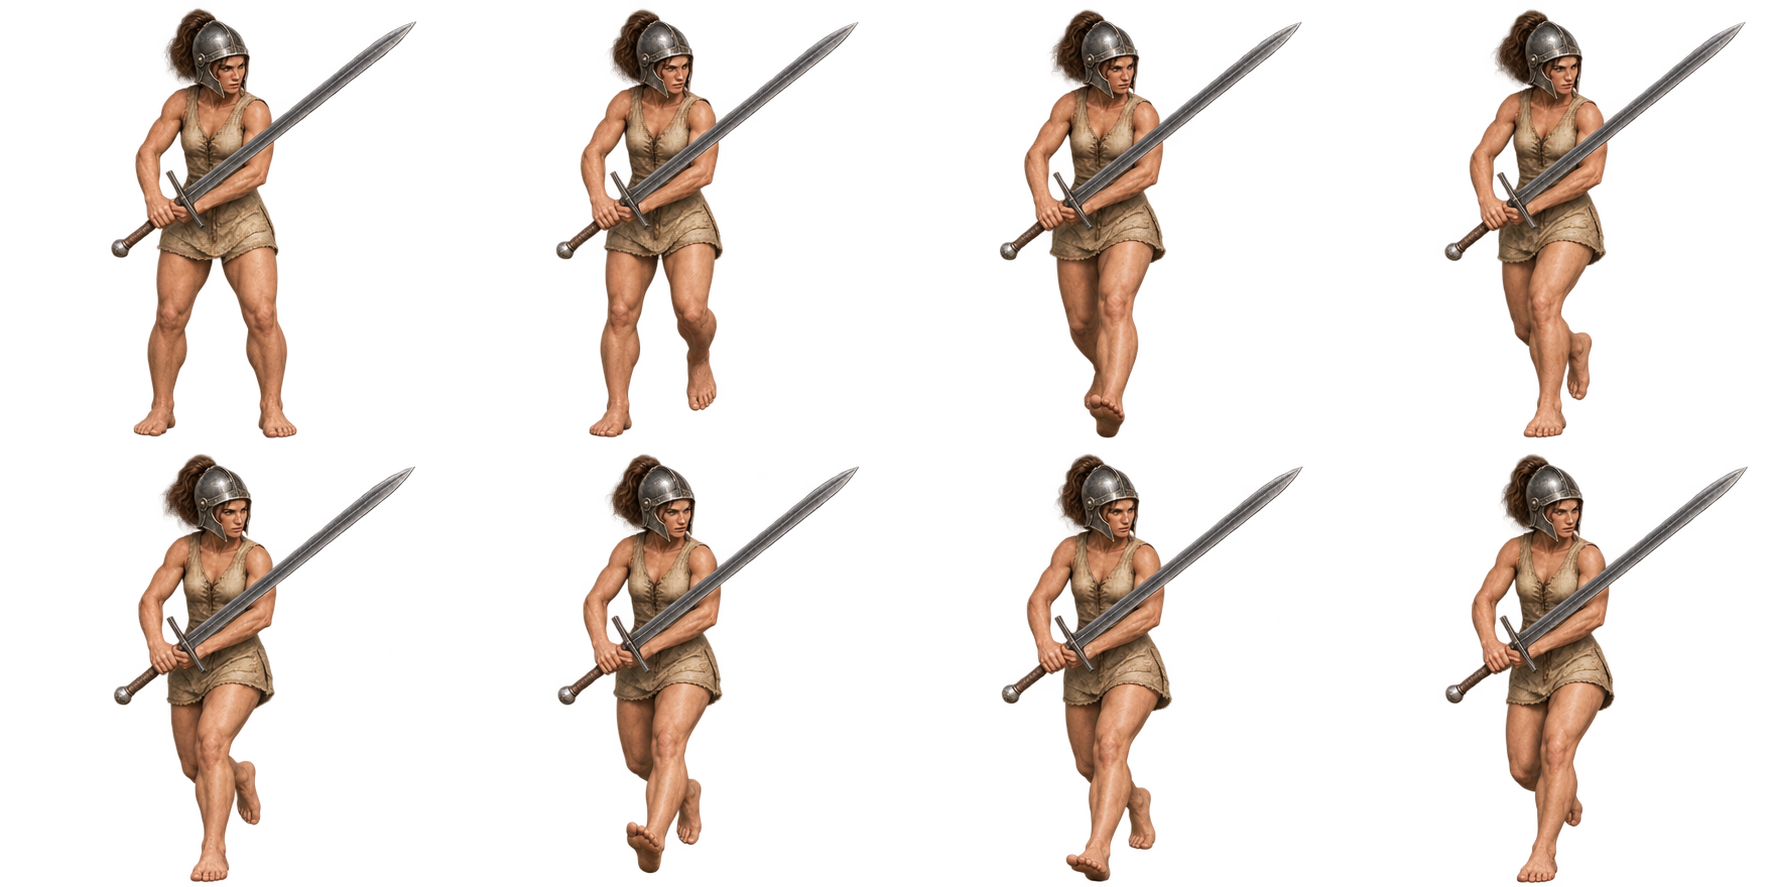
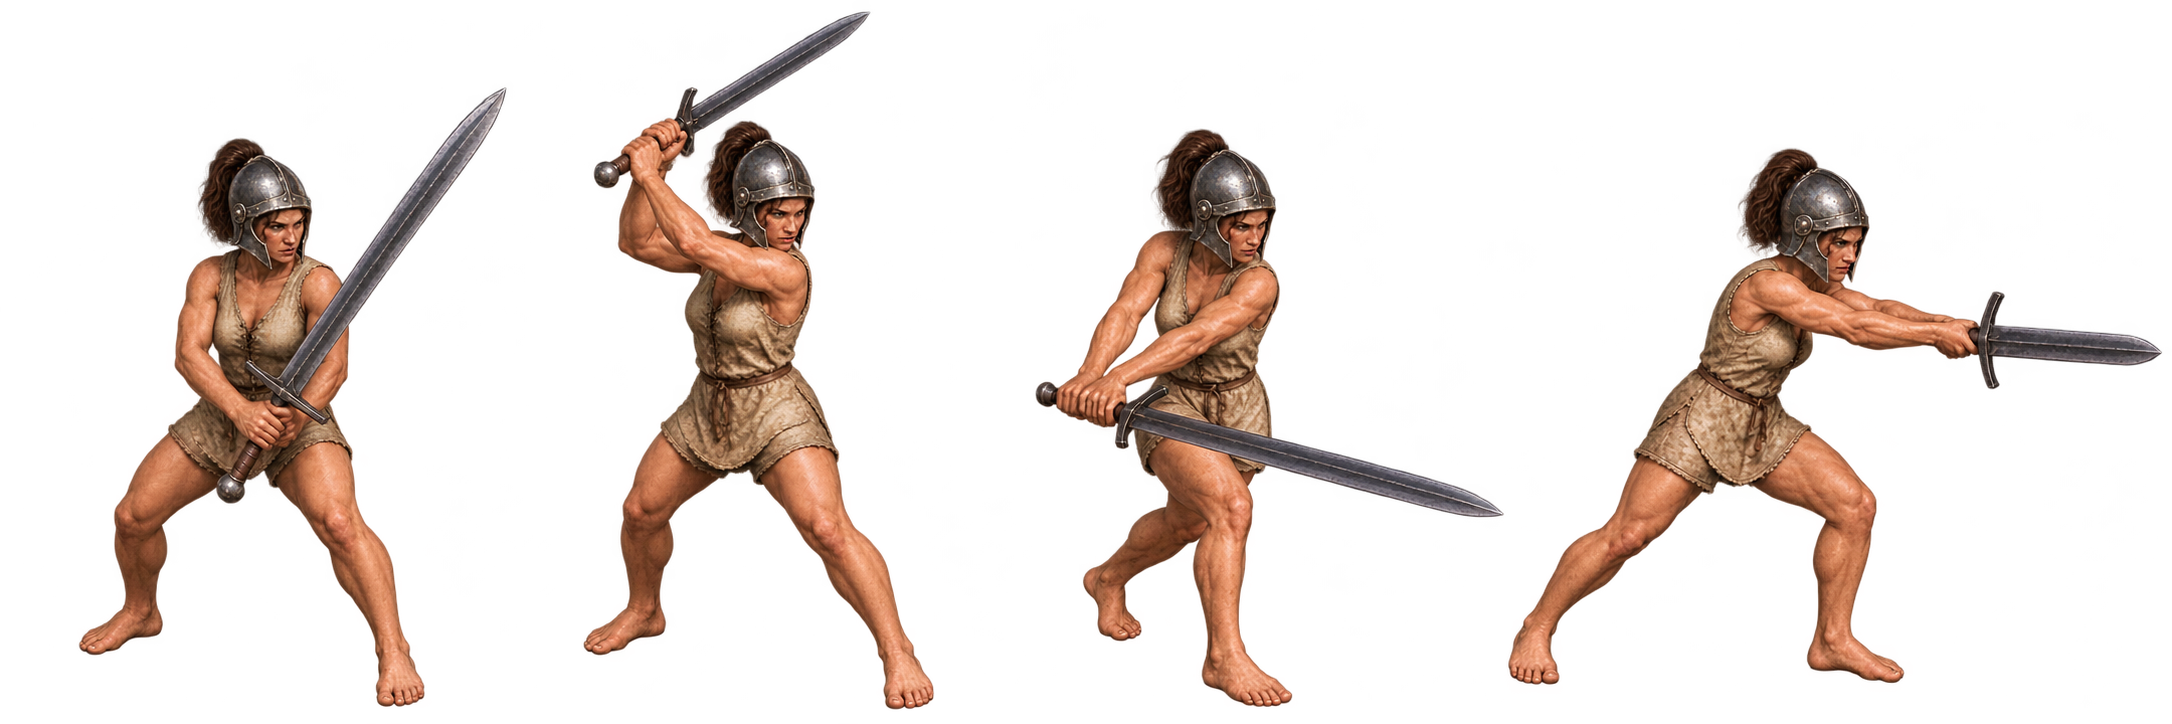
Fix helmet-only attack sprites for both genders

diff --git a/src/game/render.ts b/src/game/render.ts
@@ -30,10 +30,10 @@ const animationPaths = {
 const attackSheets = {
   femaleArmoredNoHelmAttack: '/assets/warrior_female_armored_attack.png',
   femaleArmoredHelmAttack: '/assets/warrior_female_armored_helm_attack.png',
-  femaleHelmAttack: '/assets/warrior_female_helm_attack.png',
+  femaleHelmAttack: '/assets/warrior_female_helm_attack.png?v=2',
   femaleArmoredOldHelmAttack: '/assets/warrior_female_armored_oldhelm_attack.png',
-  femaleOldHelmAttack: '/assets/warrior_female_oldhelm_attack.png',
-  maleHelmAttack: '/assets/warrior_male_helm_attack.png'
+  femaleOldHelmAttack: '/assets/warrior_female_oldhelm_attack.png?v=2',
+  maleHelmAttack: '/assets/warrior_male_helm_attack.png?v=2'
 } as const;
 const walkSheets = {
   maleBaseWalk: '/assets/walk8_male_base.png', femaleBaseWalk: '/assets/walk8_female_base.png',

diff --git a/docs/TASK.md b/docs/TASK.md
@@ -436,12 +436,12 @@
 
 ---
 
-## [-] [작업 66] 투구 단독 표시와 여성 스킬 공격 시트 수정
+## [x] [작업 66] 투구 단독 표시와 여성·남성 스킬 공격 시트 수정
 
 - **등록일**: 2026-11-16
 - **담당자**: 로컬 Codex
-- **수정 예정 파일**: `src/game/appearance.ts`, `src/game/render.ts`, `src/game/render/entities.ts`, `tests/appearance.test.mjs`, `tests/hero-art.test.mjs`, `public/assets/warrior_female_*_attack.png`, `docs/TASK.md`, `docs/WORKLOG.md`.
-- **목표**: 남녀 투구 단독 착용 외형을 유지하고, 여성 투구 단독 착용 시 잘못 연결된 보행 시트를 올바른 공격 4프레임 이미지로 교체한다.
+- **수정 예정 파일**: `src/game/appearance.ts`, `src/game/render.ts`, `src/game/render/entities.ts`, `tests/appearance.test.mjs`, `tests/hero-art.test.mjs`, `public/assets/warrior_female_*_attack.png`, `public/assets/warrior_male_helm_attack.png`, `docs/TASK.md`, `docs/WORKLOG.md`.
+- **목표**: 남녀 투구 단독 착용 외형을 유지하고, 잘못 연결된 보행 시트를 올바른 공격 4프레임 이미지로 교체한다.
 - **완료 기준**: 투구 단독/갑옷 동시 조합의 정지·보행·스킬 공격 이미지가 일관되고 공격 시트 형태 검증, 타입 검사·전체 테스트·빌드가 통과한다.
 
 ---

diff --git a/docs/WORKLOG.md b/docs/WORKLOG.md
@@ -1,3 +1,9 @@
+## 2026-11-16 · 작업 66
+- `public/assets/warrior_female_helm_attack.png`, `warrior_female_oldhelm_attack.png`, `warrior_male_helm_attack.png`: 투구 단독 착용 공격 시트를 보행 2행에서 공격 1행 4프레임으로 교체.
+- `src/game/render.ts`: 교체 이미지 캐시 갱신; 기존 `src/game/appearance.ts`의 남녀 투구 단독 외형 연결 확인.
+- `tests/hero-art.test.mjs`: 공격 시트 6종의 4×1 비율 검사 추가.
+- 검증: `pnpm run check`, `pnpm test` 68건, `pnpm run build` 통과.
+
 ## 2026-11-16 · 작업 65
 - `public/assets/warrior_male_*_helm.png`, `walk8_male_*_helm.png`, `warrior_male_helm_attack.png`: 남성 투구 단독 정지·보행·공격 이미지 5개 생성.
 - `src/game/appearance.ts`, `src/game/render.ts`, `src/game/render/entities.ts`: 남성 갑옷·투구 독립 조합 외형 연결, 여성 분기 유지.
